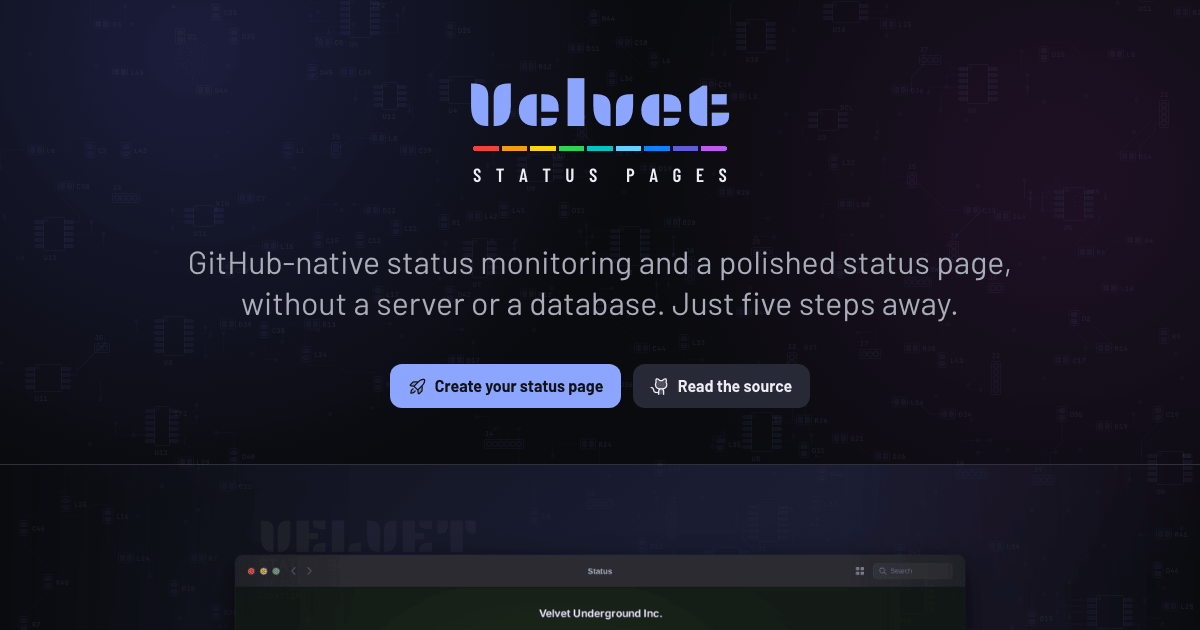
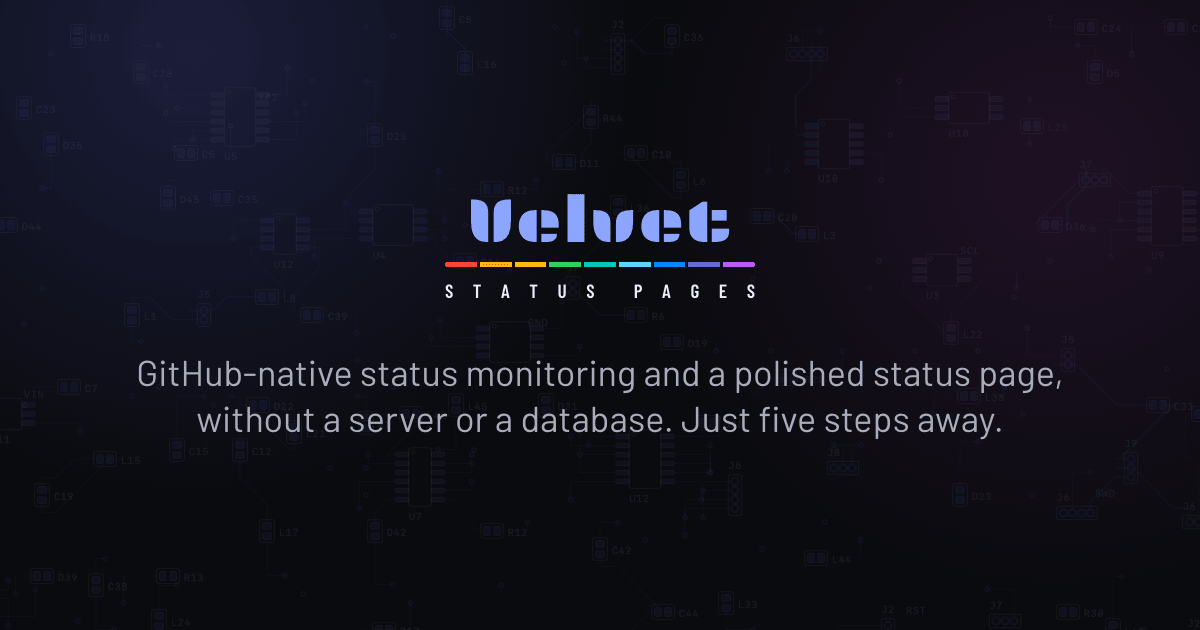
Feat: compose the social card rather than photograph the page
The card was a crop of the page, so a preview showed the buttons and a sliver
of the screenshot band, neither of which reads at that size.

- Keep only what is taken in at a glance: the mark, the colour scale, and the
  one sentence that says what Velvet is. It is still composed from the page
  itself, so the type, the palette, and the board cannot drift out of step
- Centre it. Constraining the width without centring what was left had the
  whole card hanging off the left edge, measured at the wordmark sitting 80
  pixels left of the frame's centre
- Anchor the board to the top and enlarge it, so its own silkscreened "VELVET"
  falls outside the frame instead of printing the wordmark twice

diff --git a/site/scripts/website-og.ts b/site/scripts/website-og.ts
@@ -27,6 +27,50 @@ const OUT = join(SITE, "src/website/public/og.png");
 /** The size every platform crops from, so the card is authored at it directly. */
 const CARD = { width: 1200, height: 630 };
 
+/**
+ * Composes the card out of the page rather than out of a second design.
+ *
+ * A preview is read in a glance and is often cropped further by whoever renders
+ * it, so it carries the mark and the one sentence that says what Velvet is, and
+ * nothing else. The buttons are useless in a picture, and the screenshot band
+ * only ever showed a sliver of itself. What stays keeps the page's own type,
+ * palette, and board backdrop, because it is the page, restyled for the frame.
+ */
+const CARD_LAYOUT = `
+  .hero-actions,
+  .showcase,
+  .page-footer,
+  main > section.column:not(.hero) {
+    display: none !important;
+  }
+  main {
+    width: min(100% - 5rem, 1040px) !important;
+    min-height: 100vh;
+    /* Both axes. The page lets this element fill the width and centres its
+       sections inside it, so constraining the width here without centring what
+       is left leaves the whole card hanging off the left edge. */
+    margin-inline: auto !important;
+    padding: 0 !important;
+    align-content: center;
+  }
+  .lead {
+    margin-top: 3rem !important;
+    font-size: 2.25rem !important;
+  }
+  .brand-block {
+    width: min(100%, 330px) !important;
+  }
+  /* The board carries its own silkscreened "VELVET" near its lower edge, which
+     lands inside a frame this short and reads as the wordmark printed twice.
+     Anchoring the artwork to the top and enlarging it pushes that block past
+     the bottom of the card. Only the board layer is resized; the two lit
+     corners keep their own sizing. */
+  body {
+    background-position: center top !important;
+    background-size: auto, auto, 150% auto, auto !important;
+  }
+`;
+
 const MIME: Record<string, string> = {
   ".css": "text/css",
   ".html": "text/html",
@@ -84,6 +128,7 @@ async function main(): Promise<void> {
     });
     const page = await context.newPage();
     await page.goto(site.base, { waitUntil: "load" });
+    await page.addStyleTag({ content: CARD_LAYOUT });
     await page.evaluate(() => document.fonts.ready);
     // The board backdrop is a background image on the body, and the wordmark
     // needs its face resolved. Neither reports readiness, so the frame is given
